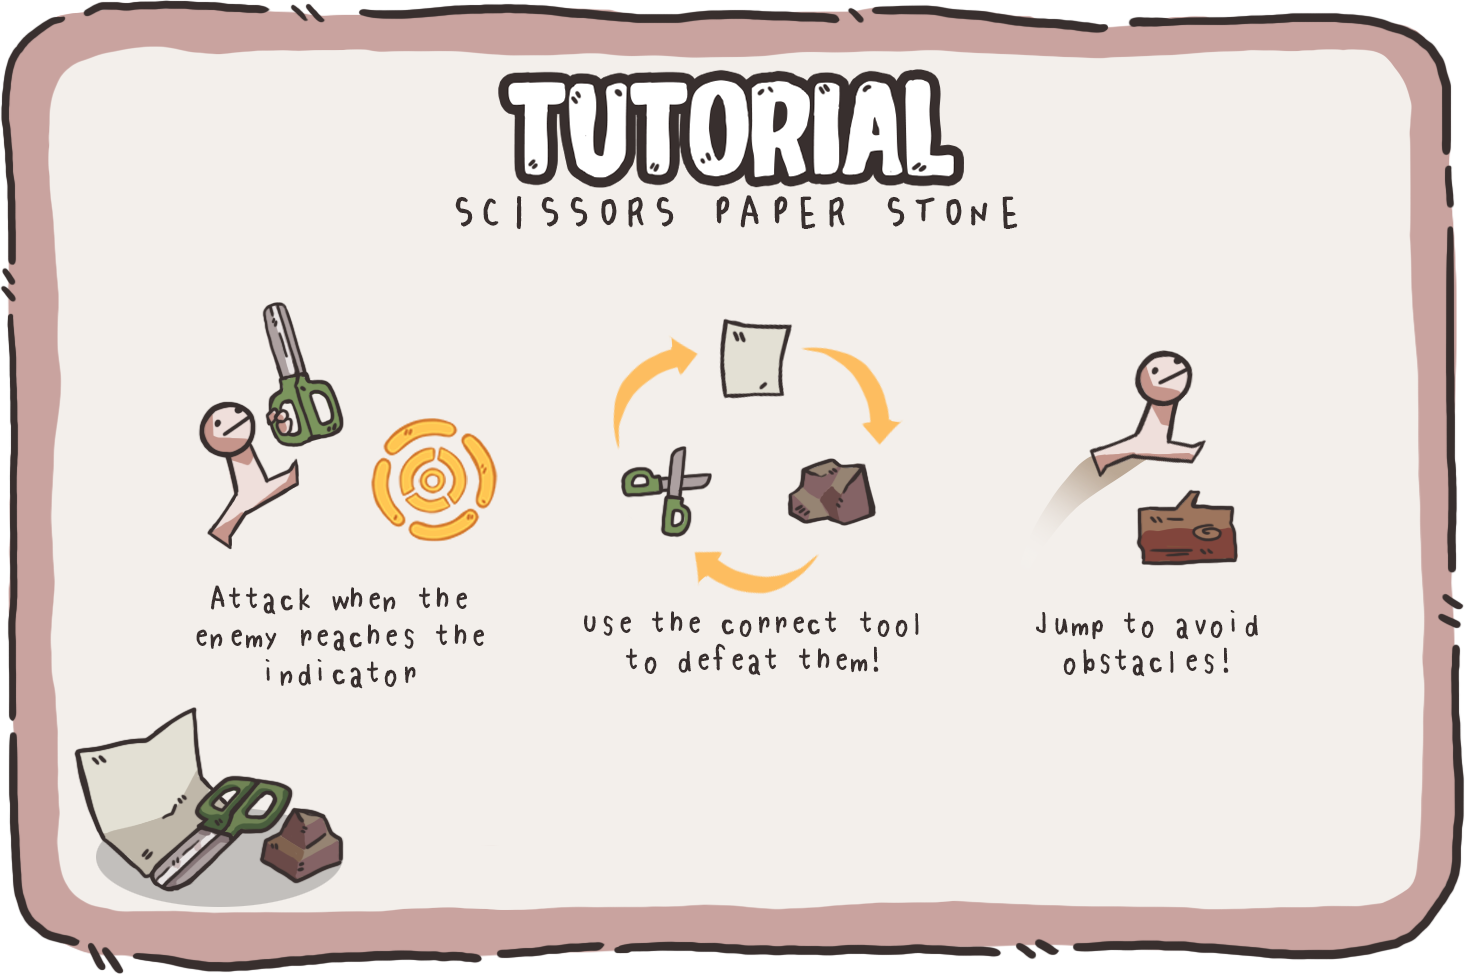
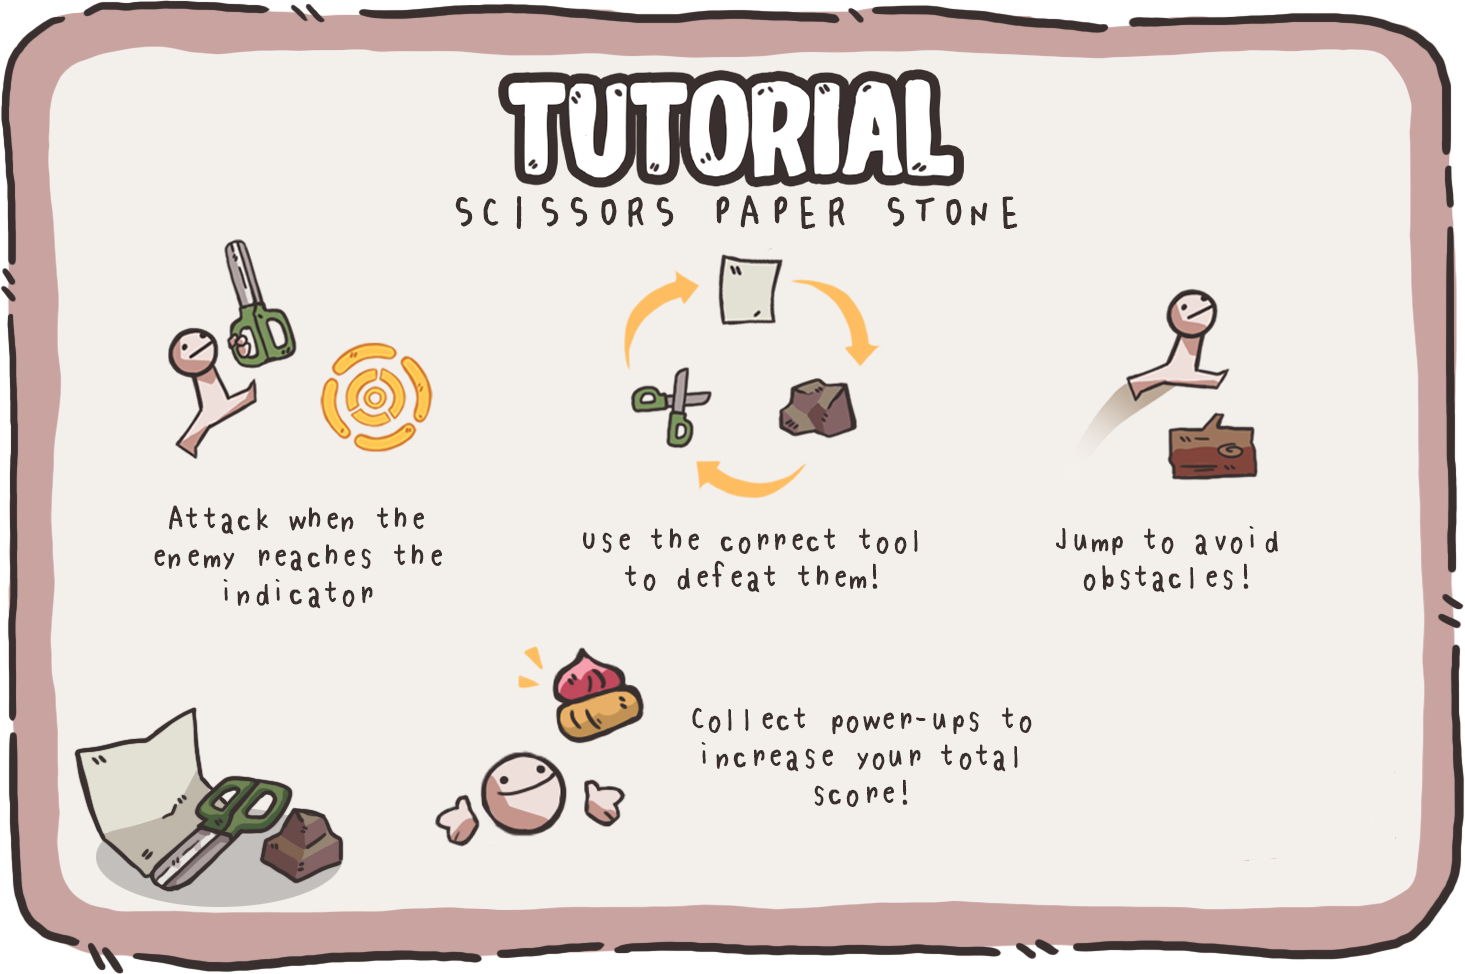
commit
- new main menu assets (tutorial screen updates)
- added int value count to store into leaderboard manager

diff --git a/Assets/Scripts/ScissorsPaperStone/Managers/SPS_PlayerManager.cs b/Assets/Scripts/ScissorsPaperStone/Managers/SPS_PlayerManager.cs
@@ -9,6 +9,9 @@ public class SPS_PlayerManager : MonoBehaviour
 {
     //this manager handles EVERYTHING related to the player
 
+    private static SPS_PlayerManager _instance;
+    public static SPS_PlayerManager Instance { get { return _instance; } }
+
     #region Enumerations
 
     //Player's Choice
@@ -55,7 +58,9 @@ public class SPS_PlayerManager : MonoBehaviour
     //variables for player idle character (endgame)
     public GameObject current_player_sprite, end_player_sprite;
 
-
+    //variables for data HERE
+    public int enemyCount;
+    public int sweetCount;
 
     #endregion
 
@@ -323,7 +328,7 @@ public class SPS_PlayerManager : MonoBehaviour
                     Destroy(other.gameObject);
                     Destroy(other.gameObject.GetComponent<Rigidbody2D>());
 
-
+                    enemyCount += 1;
                 }
                 else if (player_choice == PlayerChoice.PLAYER_PAPER
                     && other.gameObject.GetComponent<SPS_Enemy>().enemy_type == SPS_Enemy.EnemyType.ENEMY_STONE)
@@ -339,6 +344,8 @@ public class SPS_PlayerManager : MonoBehaviour
 
                     Destroy(other.gameObject);
                     Destroy(other.gameObject.GetComponent<Rigidbody2D>());
+
+                    enemyCount += 1;
 
                 }
                 else if (player_choice == PlayerChoice.PLAYER_STONE
@@ -356,6 +363,8 @@ public class SPS_PlayerManager : MonoBehaviour
                     Destroy(other.gameObject);
                     Destroy(other.gameObject.GetComponent<Rigidbody2D>());
 
+                    enemyCount += 1;
+
                 }
                 else if (other.gameObject.tag == "Powerup")
                 {
@@ -371,6 +380,8 @@ public class SPS_PlayerManager : MonoBehaviour
                     //destroy it since it has been collected
                     Destroy(other.gameObject);
                     Destroy(other.gameObject.GetComponent<Rigidbody2D>());
+
+                    sweetCount += 1;
                 }
                 //we take damage if we hit with the wrong typing
                 else
@@ -434,6 +445,8 @@ public class SPS_PlayerManager : MonoBehaviour
                 //destroy it since it has been collected
                 Destroy(other.gameObject);
                 Destroy(other.gameObject.GetComponent<Rigidbody2D>());
+
+                sweetCount += 1;
             }
         }
     }

diff --git a/Assets/Scripts/General Use/LeaderboardManager.cs b/Assets/Scripts/General Use/LeaderboardManager.cs
@@ -100,8 +100,8 @@ public class LeaderboardManager : MonoBehaviour
                 fiveStonesGroup.SetActive(false);
                 overallGroup.SetActive(false);
 
-                powerUpsPicked.text = "1";
-                enemiesKilled.text = "2";
+                powerUpsPicked.text = SPS_PlayerManager.Instance.sweetCount.ToString();
+                enemiesKilled.text = SPS_PlayerManager.Instance.enemyCount.ToString();
                 break;
             case ScoreManager.Gamemode.TOTAL:
                 chaptehGroup.SetActive(false);
